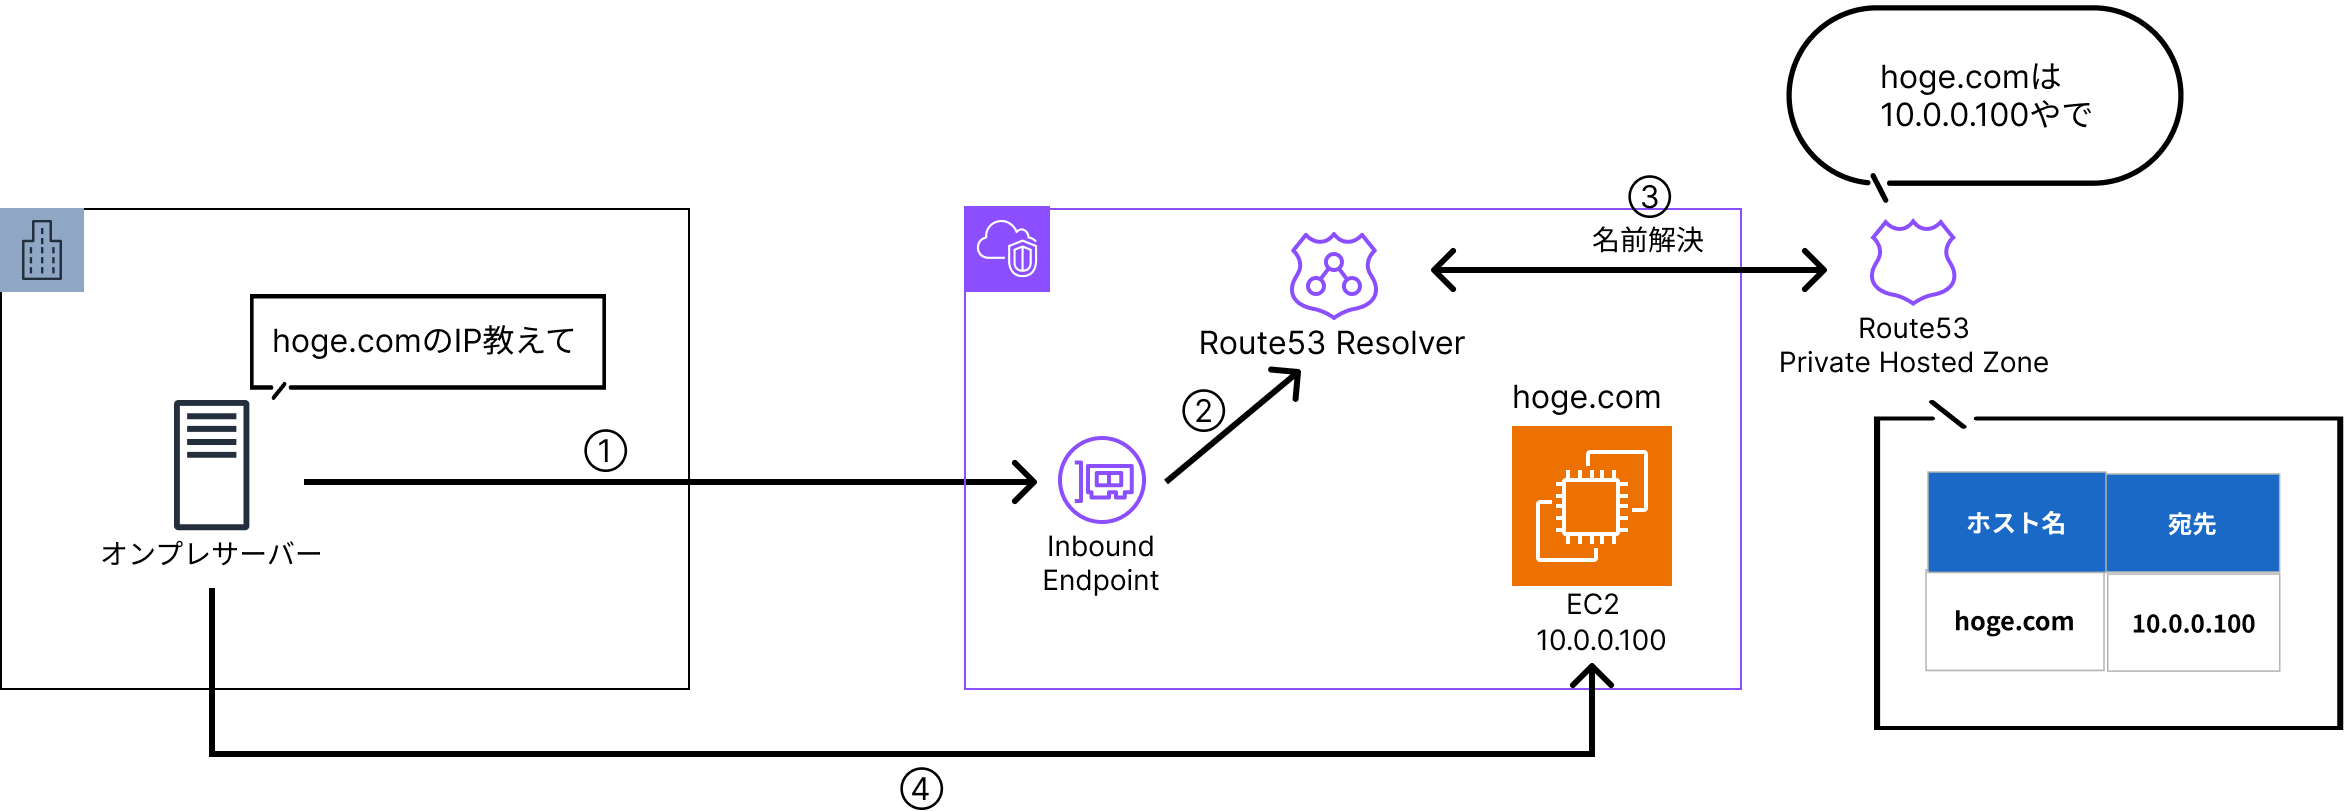
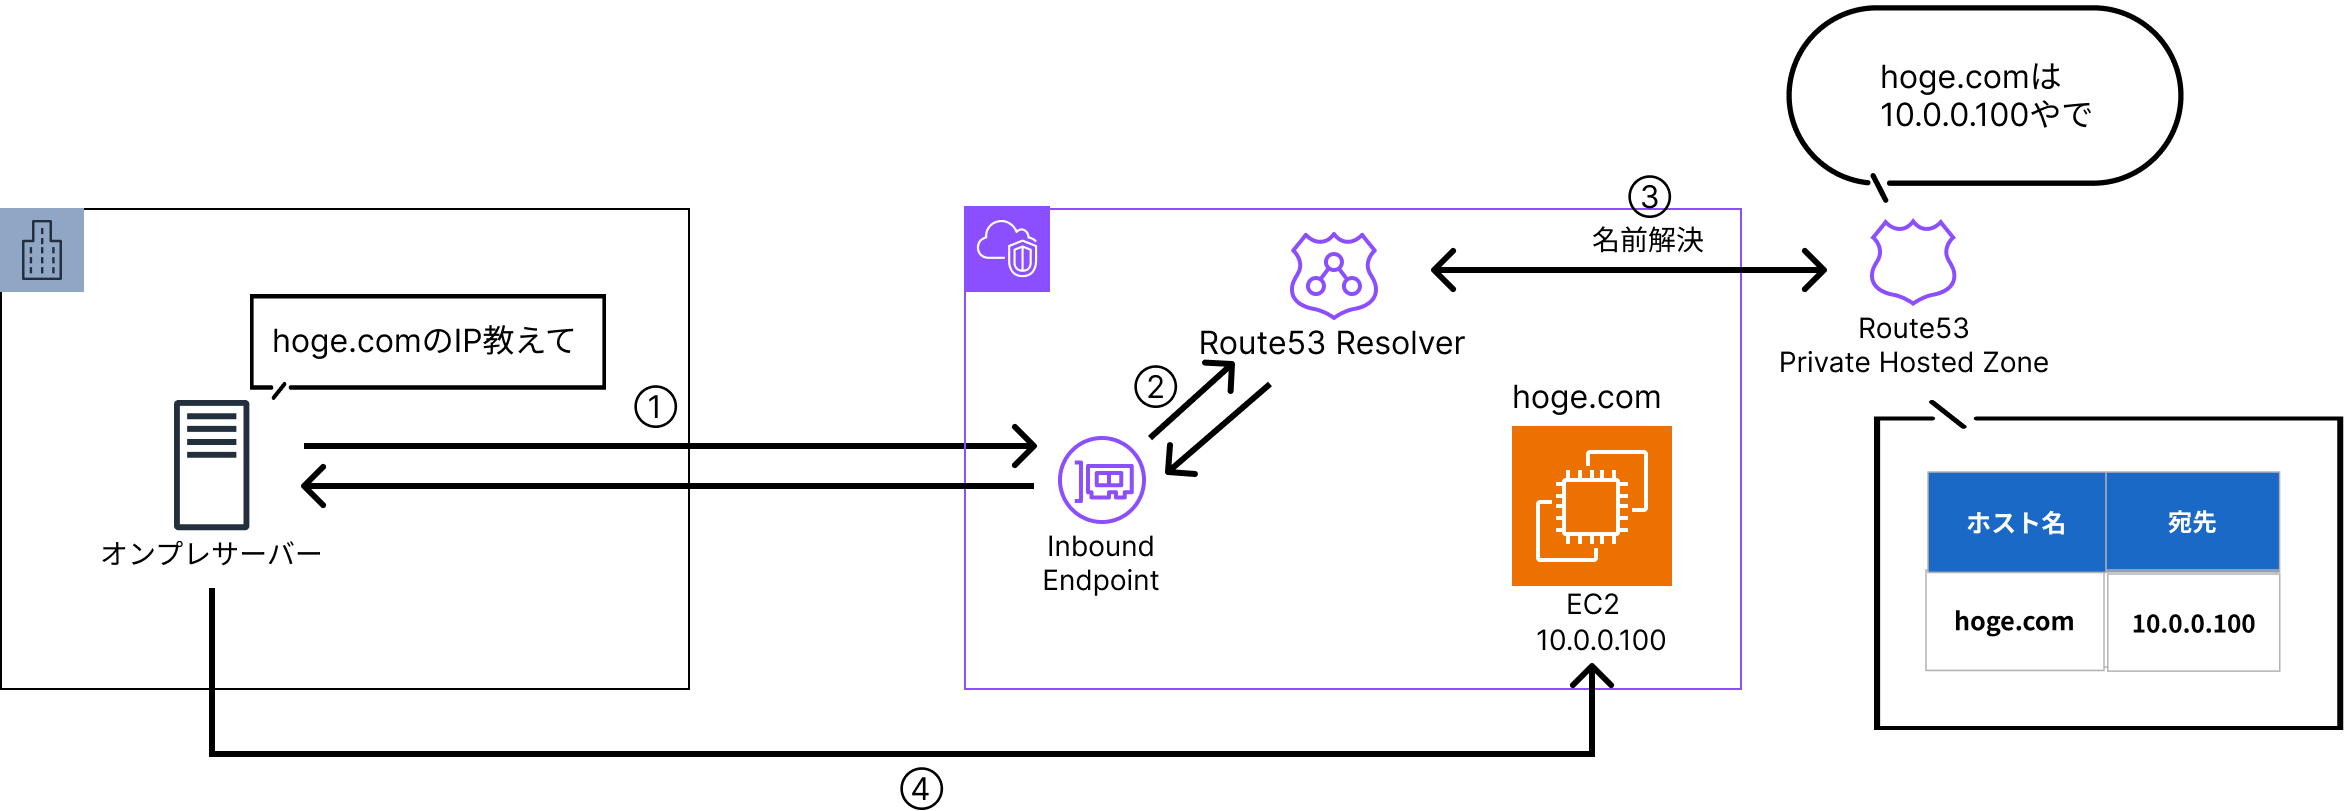
Route53記事書き直し

diff --git a/articles/1b4933f719f98f.md b/articles/1b4933f719f98f.md
@@ -12,7 +12,7 @@ AWSのSAPという資格試験の勉強をしている際に思いました。
 特に私はオンプレミスとの接続の際に、どのような構成にすれば名前解決ができるのか？
 という部分によく悩まされました。
 
-そこで、一つずつどこでどのように使われているのか調べてみました。
+そこで、一つずつどこでどのサービスが使われているのか調べてみました。
 
 ### 前提
 なんとなくDNSによる名前解決の仕組みを知っていると理解しやすいと思います。
@@ -22,28 +22,18 @@ Route53 ResolverはRoute53という前書きがありますが、VPCを作成し
 普段意識していないので、そんなものあったんだ！という感じです。
 ![](/images/q1.png)
 
-これはVPC内のリソース同士で名前解決するためのDNSです。
-VPC内でEC2同士が通信できるのは、このRoute53 Resolverが名前解決を行なっているからです。
+Route53 Resolverは名前解決をする際にネームサーバー(ドメイン名とIPが紐づけてるサーバー)に転送をしてくれます。
+これから説明する、VPC内での名前解決や、オンプレミスと接続して名前解決を行う際に使います。
 ![](/images/q2.png)
 
-他にも、後ほど出てくるでプライベートホストゾーンの名前解決でも使われます。
 それでは次に、名前解決を行うもう一つの重要な要素であるRoute53 ホストゾーンについて見ていきます。
 
 ## Route53 ホストゾーン
 Route53には2つのホストゾーンがあります。
 「パブリックホストゾーン」と「プライベートホストゾーン」です。
-こちらも名前解決を行うためのサービスです。
+二つとも名前解決を行うためのサービスです。
 
-名前解決というと、先ほどのRoute53 Resolverと似ていますね。
-Route53 ResolverとRoute53 ホストゾーンの違いは
-
-Resolver → 自動的に割り当てられたドメイン名の名前解決を行います。
-ホストゾーン → ユーザーが取得したカスタムドメイン名で名前解決を行います。
-
-図にするとこんな感じです。
-![](/images/q4.png)
-
-少し話がそれましたが、「パブリックホストゾーン」と「プライベートホストゾーン」の違いを見ていきます。
+名前解決はユーザーが取得したカスタムドメイン名で名前解決を行います。
 
 ### パブリックホストゾーン 
 パブリックホストゾーンはインターネット上で使用されるDNSホストゾーンです。
@@ -55,9 +45,7 @@ googleのIPアドレスを入力する人はまずいないでしょう。
 
 ### プライベートホストゾーン 
 プライベートホストゾーンはVPC内でユーザーが取得したDNS名での名前解決ができます。
-VPC内での名前解決なのでRoute53 Resolverと勘違いしそうですが、プライベートホストゾーンはカスタムドメイン名での名前解決です。（大事なことなので2回目）
 
-プライベートホストゾーンは
 IPアドレスにユーザーのカスタムドメインを割り当てられるため、リソースの識別が容易になります。
 そのため、複数のVPC間での名前解決やオンプレミスとのハイブリッド環境で使用されます。
 
@@ -78,8 +66,7 @@ Route53には二つのエンドポイントがあります。
 文字だけだと分かりにくいので、図にするとこのようになります。
 ![](/images/q8.png)
 
-インバウンドエンドポイントを使うことで、Route53 プライベートホストゾーンを使って
-VPC内のEC2にカスタムドメイン名で接続することができます。
+インバウンドエンドポイントを使うことで、オンプレミス環境からRoute53 プライベートホストゾーンを使って名前解決することができます。
 
 もちろんインバウンドエンドポイントを使わずに直接EC2に接続することもできます。
 ![](/images/q9.png)
@@ -94,9 +81,9 @@ EIPを使うことで固定にすることも可能ですが、Route53 プライ
 これも図で見ましょう。
 ![](/images/q10.png)
 
-どこのDNSサーバーを使うのか？というのが重要です。
+オンプレミスからの拡張などで、すでに配置されているDNSサーバーを使いたい際などに有効です。
 
-オンプレミスのDNSサーバーで名前解決をする際は、Route53 Resolverで名前解決はオンプレミスのDNSサーバーを使う、という設定をする必要があります。
+ちなみに、オンプレミスのDNSサーバーで名前解決をする際は、Route53 Resolverで名前解決はオンプレミスのDNSサーバーを使う、という設定をする必要があります。
 
 ## まとめ
 それぞれの役割を考えながらまとめてみると、意外と分かりやすかったです。
